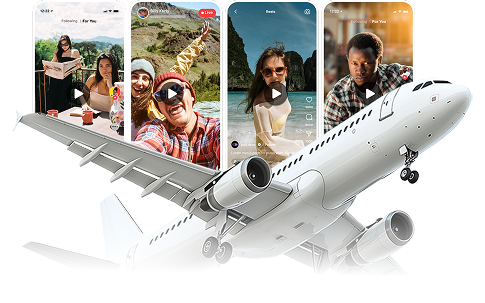
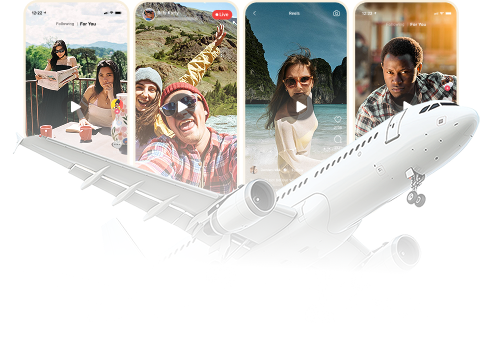
Welcome step: the real artwork, centred, and no progress rail
The supplied illustration is in at its native 492px across, which is the ceiling:
the card is 600 wide, so 82% is 1:1 and anything past it is an upscale that would
show first in the fine detail of the phone screens.

The welcome is not a question, so it no longer pretends to be one. No progress bar
and no counter on it, and it does not count toward the total: a counter that opens
on 1/6 and shows 2/6 on the first thing you are actually asked is describing a
form with six fields. The questions are five and the welcome is the door, so the
rail now starts at 1/5.

Centred copy and mark, a larger heading, and one full-width action. It is the only
step with nothing to answer, so there is no field or option list for the copy to
line up with, and a single action reads better centred under centred text than
pushed into a corner. The question steps stay left-aligned with their controls.

The artwork sits closer to the copy than it did: with the rail gone the copy moved
up and left 65px of dead space under it.

The creator welcome had never been converted to the layer approach at all. It was
still passing its artwork through the step body, so it kept the rail and would
have put its image in the flow once it has one.

Sweep across live/new x app/creator x 375/768/1024/1440, checking the modal is on
screen and does not scroll, the copy is never behind the art, the art stays inside
the card and is never upscaled, and the button is on top and clickable: all clean.

diff --git a/assets/css/ukapp.css b/assets/css/ukapp.css
@@ -4844,7 +4844,7 @@ button.ukMoreDot:hover,button.ukMoreDot:focus-visible{background:var(--hover);bo
    something drawn here, so any crop cuts the fade off and leaves the plane
    sitting on a hard edge. Containing it also means the height alone sets the
    size: at 46% the image draws about 445px wide rather than filling the card. */
-.ukObArt{position:absolute;left:0;right:0;bottom:22%;height:38%;z-index:0;
+.ukObArt{position:absolute;left:0;right:0;bottom:5%;height:55%;z-index:0;
   pointer-events:none;display:grid;place-items:center}
 /* Sized by its own limits, not by object-fit. height:100% inside a grid row that
    is itself auto-sized is a circular reference, so the browser dropped it back to
@@ -4857,7 +4857,10 @@ button.ukMoreDot:hover,button.ukMoreDot:focus-visible{background:var(--hover);bo
    percentage and resolves circularly, so a max-height in percent was ignored the
    same way height:100% was. Width caps it, the ratio does the rest, and because
    the image sizes itself there is nothing to crop. */
-.ukObArt_i{max-width:50%;width:auto;height:auto;display:block;margin:auto;grid-area:1/1}
+/* 82% IS the ceiling: the artwork is 492px across and the card is 600, so this is
+   its native size. Anything past it is an upscale, which on a cutout with fine
+   detail in the phone screens is the first thing that would look soft. */
+.ukObArt_i{max-width:82%;width:auto;height:auto;display:block;margin:auto;grid-area:1/1}
 /* The placeholder is still a block: with no artwork there is nothing to sit
    behind, and an empty layer would be invisible rather than a stand-in. */
 /* The placeholder occupies the same band, so a side without artwork yet shows
@@ -4869,7 +4872,20 @@ button.ukMoreDot:hover,button.ukMoreDot:focus-visible{background:var(--hover);bo
 .ukObArt.is-empty{border-style:dashed}
 .ukObArt.is-empty .ukObArt_ph{display:block}
 /* The product's own mark, above the line that names it. */
-.ukOb_logo{display:block;height:28px;width:auto;margin:0 0 16px}
+.ukOb_logo{display:block;height:34px;width:auto;margin:0 0 18px}
+
+/* ---- the welcome, centred ----
+   It is the one step that is not a question. Nothing on it is being answered, so
+   there is no field or option list for the copy to line up with, and a single
+   action reads better centred under centred text than pushed into a corner. The
+   question steps stay left-aligned with their controls. */
+.ukStart_ask--mark{text-align:center}
+/* Larger here than on a question: this line is the whole point of the screen,
+   and there is no field beside it competing for the eye. */
+.ukOb_modal .ukStart_ask--mark .ukStart_h{font-size:clamp(26px,3vw,33px)}
+.ukStart_ask--mark .ukOb_logo{margin-left:auto;margin-right:auto}
+.ukOb_modal:has(.ukStart_ask--mark) .ukOb_nav{display:block}
+.ukOb_modal:has(.ukStart_ask--mark) .ukOb_nav .ukNav_go{width:100%;justify-content:center}
 @media (prefers-color-scheme:dark){.ukOb_logo{filter:invert(1) brightness(1.6)}}
 :root[data-theme="dark"] .ukOb_logo{filter:invert(1) brightness(1.6)}
 :root[data-theme="light"] .ukOb_logo{filter:none}

diff --git a/assets/js/ukonboard.js b/assets/js/ukonboard.js
@@ -99,8 +99,10 @@ window.UKONBOARD = (function () {
         return ask('Welcome to Ukreate',
           'Hotels trade nights they would rather fill for content. You shoot the ' +
           'property, they host your stay, and everything you make stays yours to post. ' +
-          'Two minutes and they can start finding you.', peek('creator'), { mark: true });
+          'Two minutes and they can start finding you.', '', { mark: true });
       },
+      art: 'creator',
+      bare: true,          /* not a question: no rail, and it does not count */
       done: function () { return true; },
       cta: 'Get started'
     },
@@ -169,6 +171,7 @@ window.UKONBOARD = (function () {
           '', { mark: true });
       },
       art: 'hotel',
+      bare: true,          /* not a question: no rail, and it does not count */
       done: function () { return true; },
       cta: 'Get started'
     },
@@ -379,8 +382,17 @@ window.UKONBOARD = (function () {
      row of numbered dots. Dots put every step on screen at once, which makes a
      four-step flow look like a form with four sections; a bar says only how far
      along you are, which is the one thing worth saying. */
+  /* The welcome is not a question, so it carries no rail and is not counted. A
+     counter that opens on 1/6 and then shows 2/6 on the first thing you are
+     actually asked is describing a form with six fields; the questions are five
+     and the welcome is the door. */
+  function counted(side) {
+    return steps(side).filter(function (s) { return !s.bare; });
+  }
   function railHtml(side, at) {
-    var list = steps(side);
+    var list = counted(side);
+    var bare = steps(side).length - list.length;   /* how many precede the count */
+    at = at - bare;
     var pct = Math.round((at) / (list.length - 1) * 100);
     return '<div class="ukObBar">' +
         '<div class="ukObBar_t" aria-hidden="true"><i style="width:' + pct + '%"></i></div>' +
@@ -408,7 +420,7 @@ window.UKONBOARD = (function () {
     return '<div class="ukModalWrap ukOb" data-ob-wrap>' +
       '<div class="ukModal ukOb_modal' + (s.art ? ' has-art' : '') + '" role="dialog" ' +
         'aria-modal="true" aria-label="Set up your account">' +
-        railHtml(side, at) +
+        (s.bare ? '' : railHtml(side, at)) +
         /* Outside the question, because it belongs to the card. Nested inside the
            scrolling body it counted toward that body's scroll height and put a
            scrollbar on a step that fits. */

diff --git a/creator/index.html b/creator/index.html
@@ -10,7 +10,7 @@
 <link rel="preconnect" href="https://fonts.googleapis.com">
 <link rel="preconnect" href="https://fonts.gstatic.com" crossorigin>
 <link href="https://fonts.googleapis.com/css2?family=Marcellus&family=Lato:wght@300;400;500;700&display=swap" rel="stylesheet">
-<link rel="stylesheet" href="/assets/css/ukapp.css?v=363">
+<link rel="stylesheet" href="/assets/css/ukapp.css?v=372">
 <link rel="stylesheet" href="/assets/css/ukcreator.css?v=63">
 <link rel="stylesheet" href="/assets/css/ukdash.css?v=27">
 </head>
@@ -106,7 +106,7 @@
 <script src="/assets/js/ukplatconnect.js?v=2" defer></script>
 <script src="/assets/js/ukplace.js?v=1" defer></script>
 <script src="/assets/js/ukdemo.js?v=5" defer></script>
-<script src="/assets/js/ukonboard.js?v=14" defer></script>
+<script src="/assets/js/ukonboard.js?v=16" defer></script>
 <script src="/assets/js/ukattrib.js?v=5" defer></script>
 <script src="/assets/js/ukpitchin.js?v=5" defer></script>
 <script src="/assets/js/uknotify.js?v=1" defer></script>

diff --git a/app/index.html b/app/index.html
@@ -10,7 +10,7 @@
 <link rel="preconnect" href="https://fonts.googleapis.com">
 <link rel="preconnect" href="https://fonts.gstatic.com" crossorigin>
 <link href="https://fonts.googleapis.com/css2?family=Marcellus&family=Lato:wght@300;400;500;700&display=swap" rel="stylesheet">
-<link rel="stylesheet" href="/assets/css/ukapp.css?v=363">
+<link rel="stylesheet" href="/assets/css/ukapp.css?v=372">
 <link rel="stylesheet" href="/assets/css/ukdash.css?v=27">
 <link rel="stylesheet" href="/assets/css/ukcalc.css?v=4">
 </head>
@@ -98,7 +98,7 @@
 <script src="/assets/js/ukplatconnect.js?v=2" defer></script>
 <script src="/assets/js/ukplace.js?v=1" defer></script>
 <script src="/assets/js/ukdemo.js?v=5" defer></script>
-<script src="/assets/js/ukonboard.js?v=14" defer></script>
+<script src="/assets/js/ukonboard.js?v=16" defer></script>
 <script src="/assets/js/ukattrib.js?v=5" defer></script>
 <script src="/assets/js/ukpitchin.js?v=5" defer></script>
 <script src="/assets/js/uknotify.js?v=1" defer></script>

diff --git a/README.md b/README.md
@@ -216,9 +216,18 @@ left on the checklist, because a property with none is not really listed.
 
 **The modal is one size on every screen** and does not resize between questions,
 so Continue never moves under the cursor. The question scrolls; the progress bar
-and the buttons do not. The welcome carries a single supplied image rather than
-assembled data — drop it at `assets/img/onboard-welcome-{hotel,creator}.jpg` and
-it is picked up; until then the slot renders a plain placeholder.
+and the buttons do not.
+
+**The welcome is not a question**, and it is built differently for that reason. No
+progress bar and no counter, because it is the door rather than the first of five
+things being asked; the counter starts at 1/5 on the step after it. Its copy and
+mark are centred, its heading is larger, and its one action runs the full width of
+the card. The artwork sits BEHIND the step, out of flow, so it sets the height of
+nothing and can run down past the copy and behind the button. It is contained,
+never cropped, because the fade under it is part of the artwork rather than a
+gradient drawn here. Drop a cutout PNG at
+`assets/img/onboard-welcome-{hotel,creator}.png` and flip its entry in `ART`;
+until then that side renders a placeholder in the same band.
 
 Behind the modal sits the **marketplace**, not the user's own dashboard. A new
 account's dashboard is empty; the creator network and the live stays are not,
